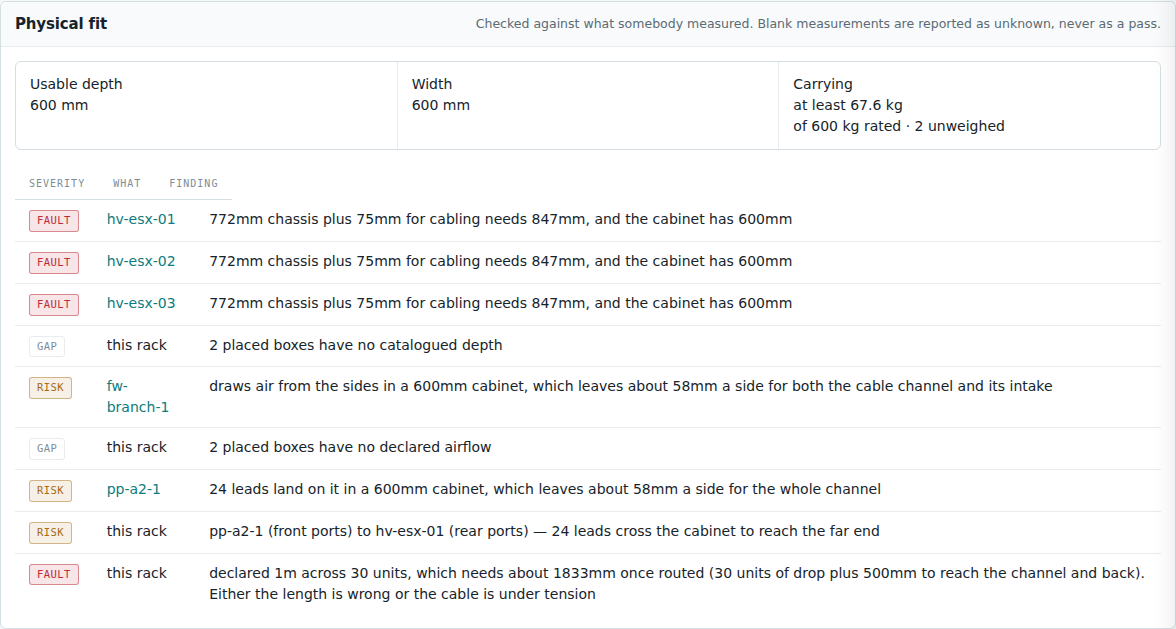
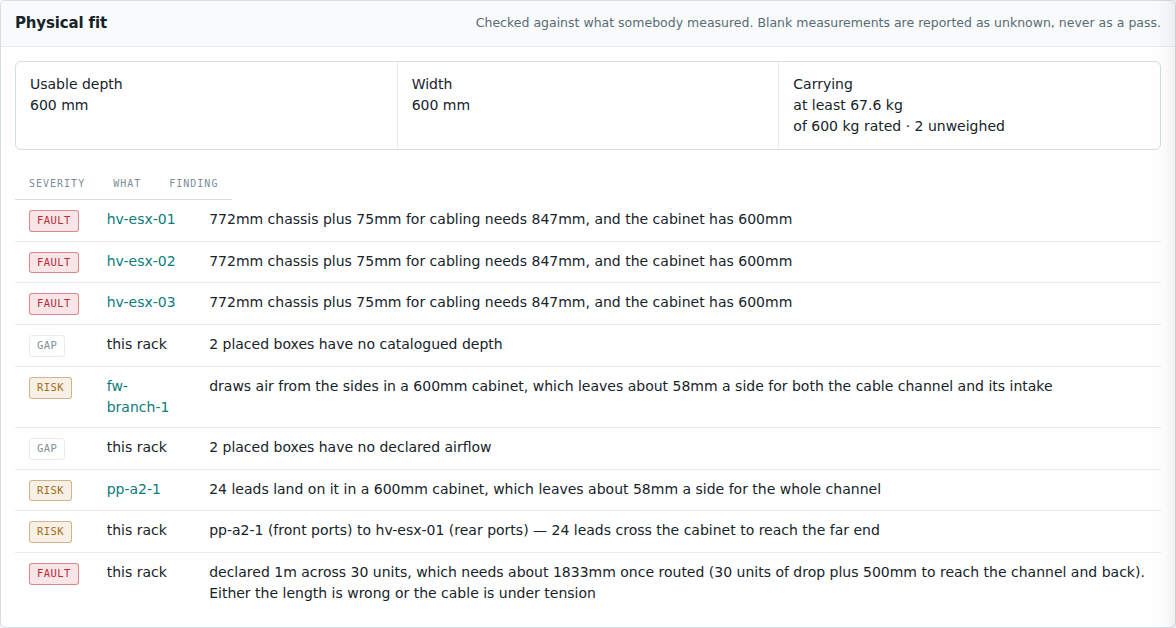
Manual: four fragments regenerated, and the one that was missing
The staleness checker named four. It could not name the fifth, because a
fragment that does not exist has no depends_on to compare -- and money was
undocumented entirely: eight fragments, and the only mentions of cost in
any of them were incidental. That is the same shape as the aspirational
screenshots this manual was already burned by. The manifest read as
complete.

parts/60-money.md covers what a thing costs, who benefits from a line,
how a price moved against inflation, how big things are, who holds a
cluster, what that share costs, and several tenants in one machine. Six
captures, all from pages actually opened.

racks was a false positive worth checking rather than dismissing: it
depends on asset_detail.html, which changed for reasons that have nothing
to do with racks. Opened it, compared the fit panel against the old
capture -- 628px against 629 -- and left the prose alone.

network gained the circuit's reprice and price-movement panels, and a
correction I would not have found without opening the page: a circuit can
belong to a project, but the link is made from the PROJECT's page and the
circuit page says nothing about it. The prose now says where to go.

Claude-Session: https://claude.ai/code/session_01E3MV6VbivyKpFZtyNcLK9D

diff --git a/docs/manual/README.md b/docs/manual/README.md
@@ -15,6 +15,7 @@ for the people using it.
 | [Addressing](parts/30-addressing.md) | prefixes, reservations, VLANs, allocations |
 | [Network](parts/40-network.md) | topology, circuits, overlays, redundancy groups |
 | [Reports](parts/50-reports.md) | outage simulation, what expires, power findings, the change log |
+| [Money](parts/60-money.md) | what things cost, how big they are, who holds what share, and what that share costs |
 
 Screenshots are of the public demo at `https://invctl.madalin.me`: a small
 company that owns its production hardware in Oslo, rents a rack in a colo for
